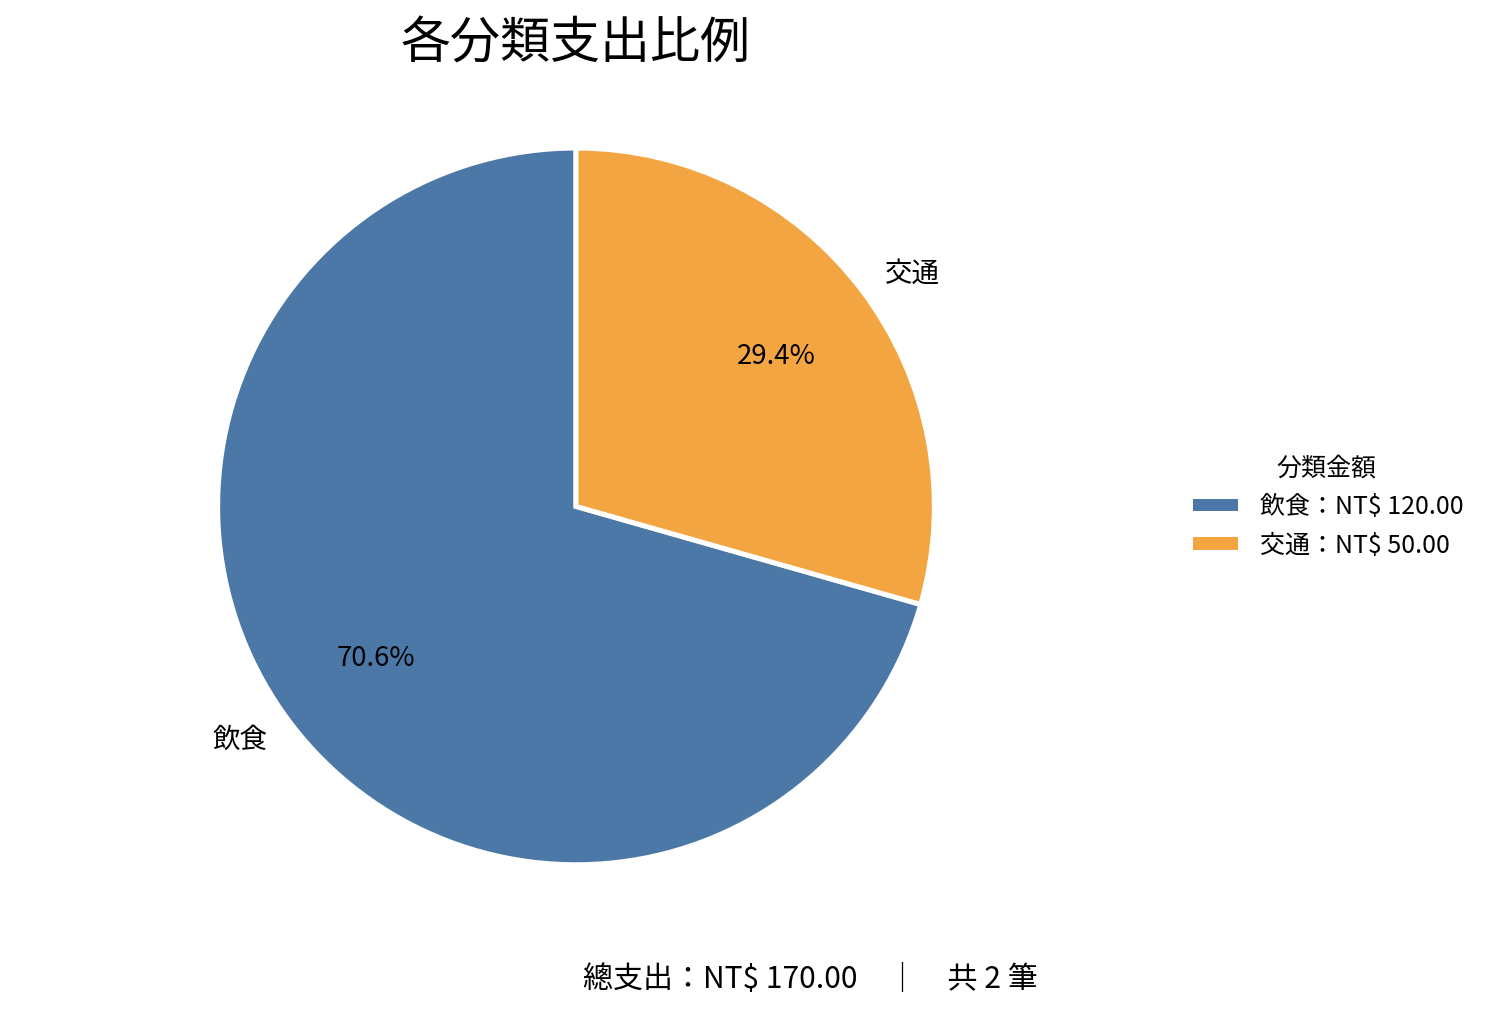
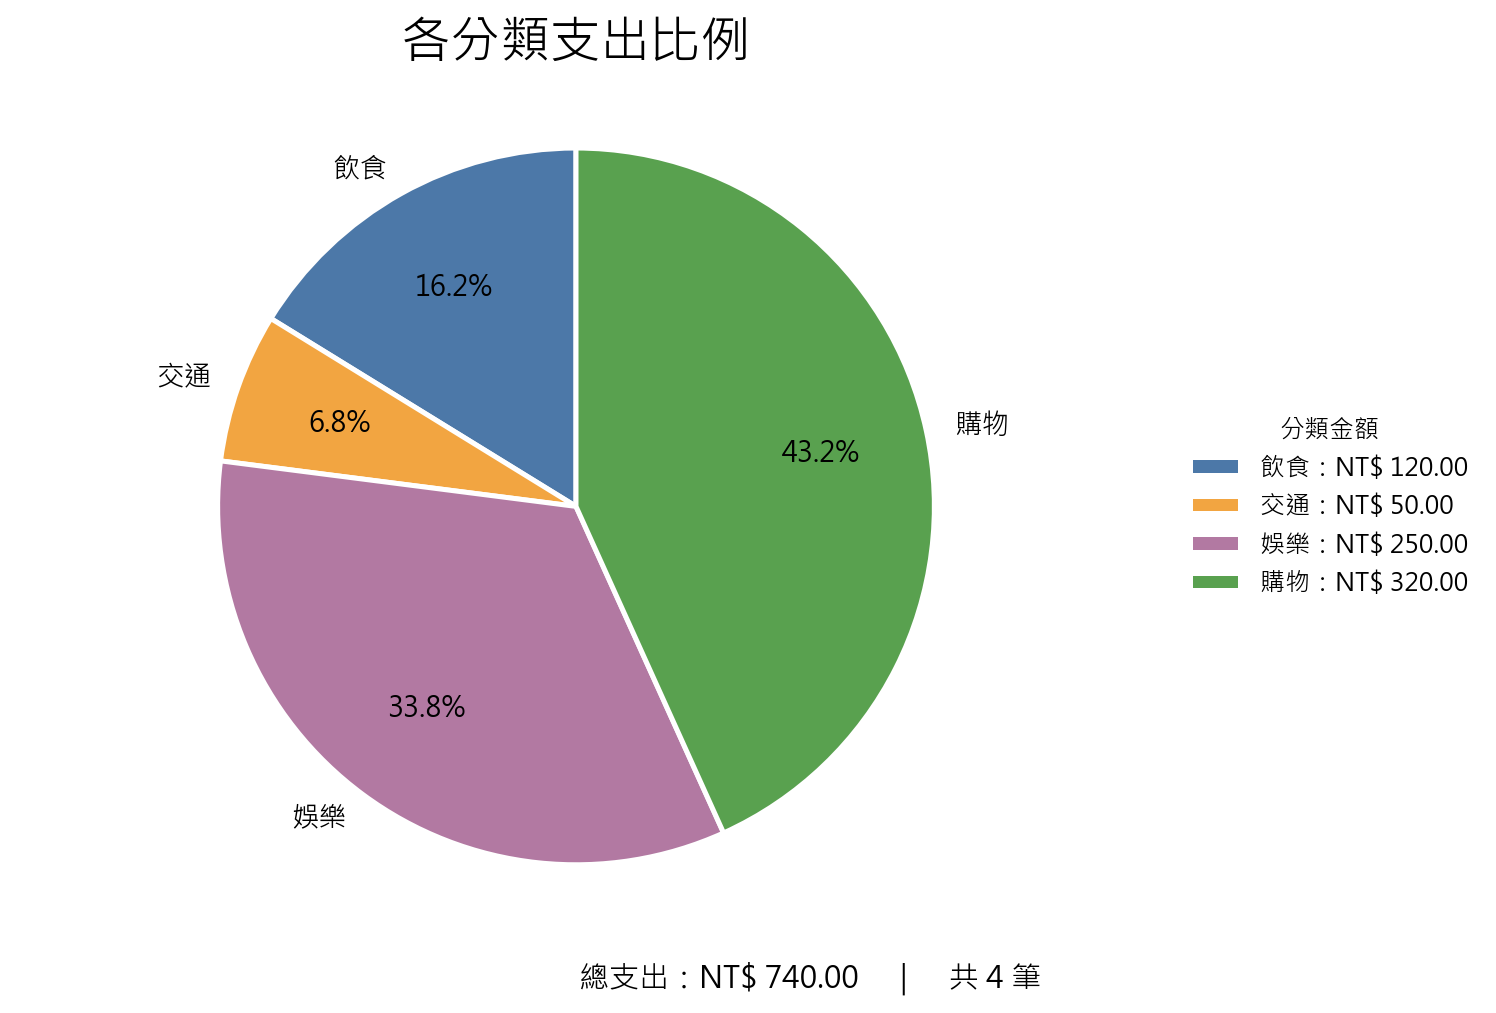
docs: update README with usage guide and sample pie chart

diff --git a/README.md b/README.md
@@ -1,1 +1,34 @@
-# expense-tracker
+# 簡易記帳與消費分析工具 (Simple Expense Tracker)
+
+這是一個兩人協作開發的 Python 記帳工具，可記錄多筆日常消費並依分類自動產生支出圓餅圖。
+
+## 組員分工
+- **Member A（`feature-input` 分支）**：負責消費輸入介面與 CSV 存檔模組（`input_expense.py`）
+- **Member B（`1132960許峻瑋` 分支）**：負責資料讀取與分類圓餅圖視覺化模組（`visualize.py`）
+
+## 環境安裝
+1. 下載專案：
+```bash
+git clone [https://github.com/Jason-la0/expense-tracker.git](https://github.com/Jason-la0/expense-tracker.git)
+cd expense-tracker
+```
+2. 安裝所需套件：
+```bash
+pip install -r requirements.txt
+```
+
+## 執行方式
+### 1. 新增記帳紀錄
+```bash
+python input_expense.py
+```
+依終端機提示依序輸入日期、金額、分類與選填備註，紀錄會自動儲存至 `expenses.csv`。
+
+### 2. 產生消費分類圓餅圖
+```bash
+python visualize.py
+```
+讀取 `expenses.csv` 並依分類繪製圓餅圖，同時匯出圖片檔 `sample_pie_chart.png`。
+
+## 範例輸出結果
+![消費分類圓餅圖範例](sample_pie_chart.png)
